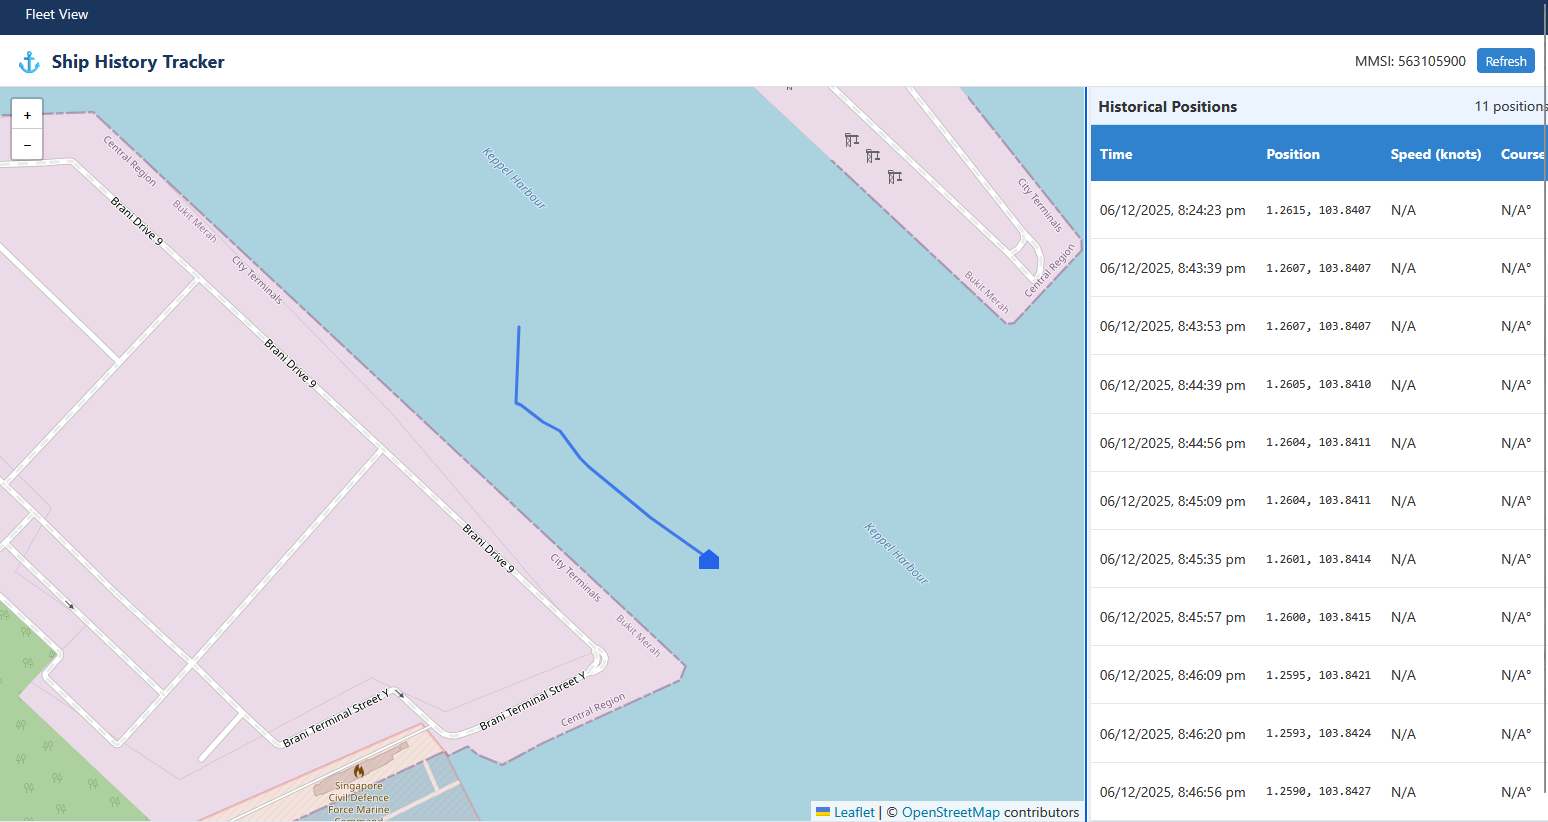
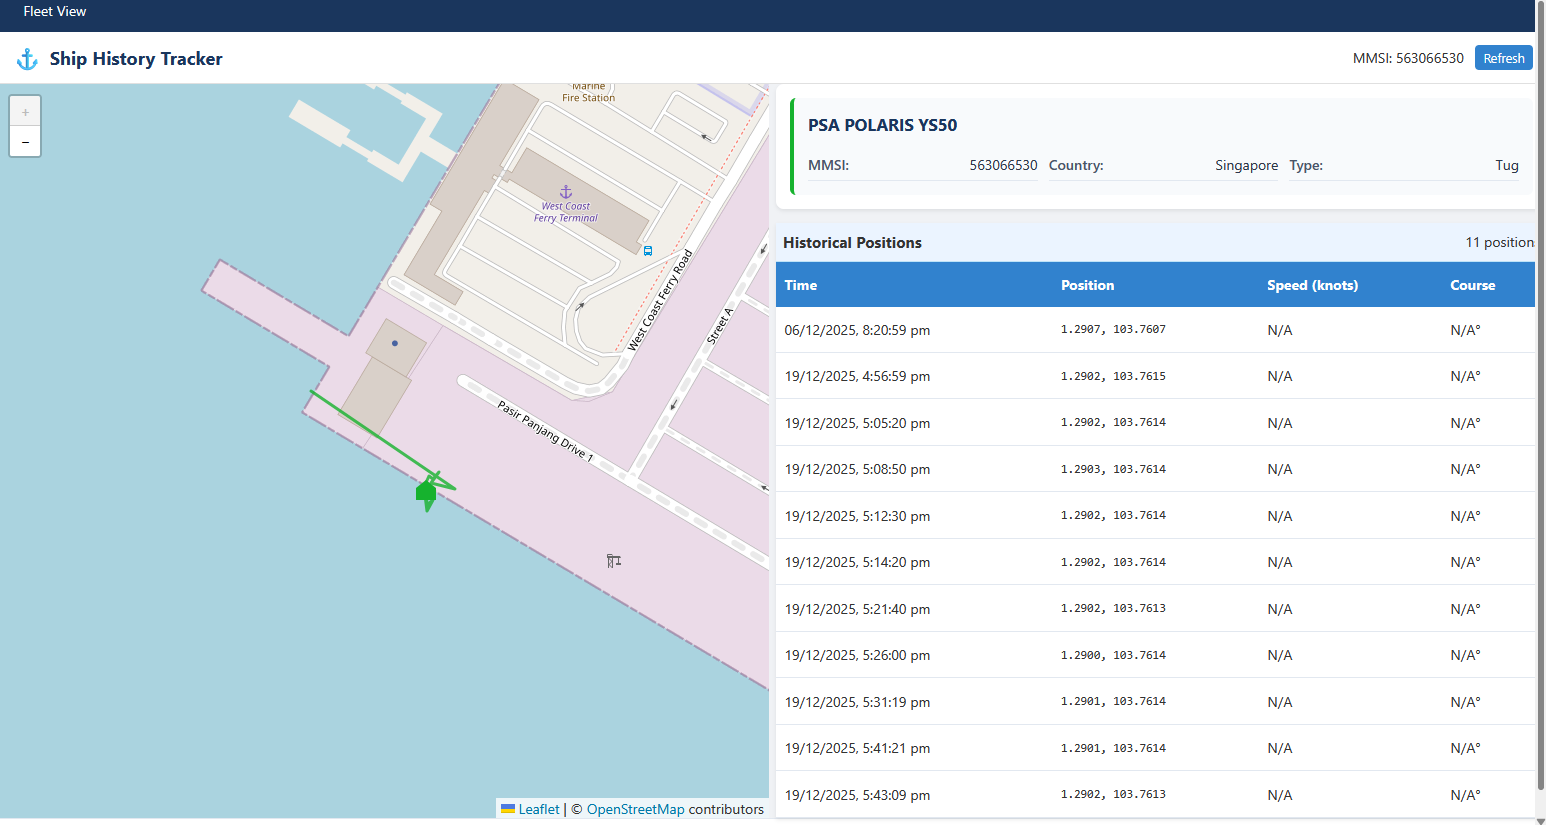
Added vessel summary to vessel history page

diff --git a/OpenVehMap/static/js/history.js b/OpenVehMap/static/js/history.js
@@ -8,6 +8,12 @@ document.addEventListener('DOMContentLoaded', function() {
     const positionCount = document.getElementById('position-count');
     const loadingOverlay = document.getElementById('loading');
     
+    // Vessel details elements
+    const shipNameElement = document.getElementById('ship-name');
+    const mmsiValueElement = document.getElementById('mmsi-value');
+    const countryValueElement = document.getElementById('country-value');
+    const typeValueElement = document.getElementById('type-value');
+    
     // Initialize map
     const map = L.map(mapElement).setView([20, 0], 2);
     
@@ -18,6 +24,7 @@ document.addEventListener('DOMContentLoaded', function() {
     let shipMarker = null;
     let routeLine = null;
     let positions = [];
+    let shipInfo = null;
     
     async function fetchShipHistory() {
         try {
@@ -29,6 +36,34 @@ document.addEventListener('DOMContentLoaded', function() {
         } catch (error) {
             console.error('Error fetching ship history:', error);
             return [];
+        }
+    }
+    
+    async function fetchShipInfo() {
+        try {
+            const response = await fetch(`/api/ship/${mmsi}`);
+            if (!response.ok) {
+                return null;
+            }
+            return await response.json();
+        } catch (error) {
+            console.error('Error fetching ship info:', error);
+            return null;
+        }
+    }
+    
+    function updateVesselDetails(info) {
+        if (info) {
+            shipNameElement.textContent = info.name || 'Unknown Vessel';
+            mmsiValueElement.textContent = info.mmsi;
+            countryValueElement.textContent = info.country || 'Unknown';
+            typeValueElement.textContent = info.type || 'Unknown';
+            
+            // Update the ship color based on type
+            const shipColor = info.type === "Tug" ? "#16b22eff" : 
+                             (info.type === "Military" || info.type === "SAR") ? "#eb2525ff" : 
+                             "#2563eb";
+            document.querySelector('.detail-card').style.borderLeftColor = shipColor;
         }
     }
     
@@ -44,17 +79,24 @@ document.addEventListener('DOMContentLoaded', function() {
         if (shipMarker) map.removeLayer(shipMarker);
         if (routeLine) map.removeLayer(routeLine);
         
+        // Determine ship color based on type from ship info
+        const shipColor = shipInfo ? 
+                         (shipInfo.type === "Tug" ? "#16b22eff" : 
+                         (shipInfo.type === "Military" || shipInfo.type === "SAR") ? "#eb2525ff" : 
+                         "#2563eb") : 
+                         "#2563eb";
+        
         const coordinates = data.map(pos => [pos.lat, pos.lng]);
         
         routeLine = L.polyline(coordinates, {
-            color: '#2563eb',
+            color: shipColor,
             weight: 3,
             opacity: 0.8
         }).addTo(map);
         
         const lastPos = data[data.length - 1];
         shipMarker = L.marker([lastPos.lat, lastPos.lng], { 
-            icon: createShipIcon(0, 20, '')
+            icon: createShipIcon(0, 20, shipInfo ? shipInfo.type : 'Other')
         })
         .addTo(map)
         .bindPopup(`<b>Current Position</b><br>Time: ${formatTimestamp(lastPos.timestamp)}`);
@@ -63,7 +105,7 @@ document.addEventListener('DOMContentLoaded', function() {
         map.fitBounds(bounds.pad(0.1));
         
         shipsTableBody.innerHTML = '';
-        data.slice(0, 50).forEach(pos => {
+        data.forEach(pos => {
             const row = document.createElement('tr');
             row.innerHTML = `
                 <td class="timestamp">${formatTimestamp(pos.timestamp)}</td>
@@ -78,7 +120,14 @@ document.addEventListener('DOMContentLoaded', function() {
     async function init() {
         loadingOverlay.classList.remove('hidden');
         
-        const historyData = await fetchShipHistory();
+        // Fetch both history and ship info
+        const [historyData, infoData] = await Promise.all([
+            fetchShipHistory(),
+            fetchShipInfo()
+        ]);
+        
+        shipInfo = infoData;
+        updateVesselDetails(infoData);
         renderPositions(historyData);
         
         loadingOverlay.classList.add('hidden');

diff --git a/OpenVehMap/static/css/history.css b/OpenVehMap/static/css/history.css
@@ -1,9 +1,9 @@
-/* Thanks Qwen */
 .main-content {
     display: grid;
-    grid-template-columns: 1fr;
-    gap: 0;
-    height: calc(100vh - 105px); /* Full viewport height minus header and nav */
+    grid-template-columns: 1fr 1fr;
+    grid-template-rows: auto 1fr; /* Explicit row definition */
+    gap: 0.5rem;
+    height: calc(100vh - 105px); /* Full height minus header/nav */
 }
 
 .map-container {
@@ -11,6 +11,7 @@
     height: 100%;
     width: 100%;
     z-index: 1;
+    grid-row: 1 / 3; /* Make map span both rows */
 }
 
 #map {
@@ -19,6 +20,54 @@
     z-index: 1;
 }
 
+/* Vessel Details - Top Right */
+.vessel-details {
+    background: white;
+    border-radius: 8px;
+    box-shadow: 0 2px 4px rgba(0, 0, 0, 0.08);
+    margin: 0 0 0.5rem 0;
+    padding: 1rem;
+    grid-column: 2;
+    grid-row: 1;
+}
+
+.detail-card {
+    background: #f8fafc;
+    border-radius: 6px;
+    padding: 1rem;
+    border-left: 4px solid #3182ce;
+}
+
+.detail-card h3 {
+    color: #1a365d;
+    margin-bottom: 0.8rem;
+    font-size: 1.2rem;
+}
+
+.detail-grid {
+    display: grid;
+    grid-template-columns: repeat(auto-fit, minmax(200px, 1fr));
+    gap: 0.8rem;
+}
+
+.detail-item {
+    display: flex;
+    justify-content: space-between;
+    padding: 0.4rem 0;
+    border-bottom: 1px solid #e2e8f0;
+}
+
+.detail-item label {
+    font-weight: 600;
+    color: #4a5568;
+}
+
+.detail-item span {
+    color: #2d3748;
+    font-weight: 500;
+}
+
+/* Ships Table Container - Bottom Right */
 .ships-table-container {
     background: white;
     border-radius: 0;
@@ -28,6 +77,9 @@
     display: flex;
     flex-direction: column;
     min-height: 0;
+    grid-column: 2;
+    grid-row: 2;
+    height: 100%; /* Ensure it fills available space */
 }
 
 .table-header {
@@ -61,6 +113,7 @@
     min-height: 0;
     display: flex;
     flex-direction: column;
+    height: 100%; /* Force table wrapper to fill available space */
 }
 
 #ships-table {
@@ -120,33 +173,28 @@ footer {
 }
 
 /* Responsive adjustments */
-@media (min-width: 992px) {
-    .main-content {
-        grid-template-columns: 70% 30%;
-        gap: 0.5rem;
-    }
-    
-    .ships-table-container {
-        height: calc(100vh - 105px);
-        border-radius: 0;
-    }
-    
-    .table-wrapper {
-        max-height: none;
-    }
-    
-    .pagination {
-        border-top: none;
-    }
-}
-
 @media (max-width: 991px) {
     .main-content {
         grid-template-columns: 1fr;
+        grid-template-rows: auto auto auto;
+        height: calc(100vh - 105px);
+    }
+    
+    .vessel-details {
+        grid-column: 1;
+        grid-row: 1;
+    }
+    
+    .map-container {
+        grid-column: 1;
+        grid-row: 2;
+        height: 40%;
+        grid-row: auto; /* Reset for mobile */
     }
     
     .ships-table-container {
-        height: 300px;
-        border-top: 1px solid #e2e8f0;
+        grid-column: 1;
+        grid-row: 3;
+        height: 40%;
     }
 }

diff --git a/OpenVehMap/templates/history.html b/OpenVehMap/templates/history.html
@@ -1,4 +1,3 @@
-<!-- Thanks Qwen -->
 <!DOCTYPE html>
 <html lang="en">
 <head>
@@ -31,10 +30,33 @@
         </header>
         
         <div class="main-content">
+            <!-- Map - Left Side -->
             <div class="map-container">
                 <div id="map"></div>
             </div>
 
+            <!-- Vessel Details - Top Right -->
+            <div class="vessel-details">
+                <div class="detail-card">
+                    <h3 id="ship-name">Loading...</h3>
+                    <div class="detail-grid">
+                        <div class="detail-item">
+                            <label>MMSI:</label>
+                            <span id="mmsi-value">-</span>
+                        </div>
+                        <div class="detail-item">
+                            <label>Country:</label>
+                            <span id="country-value">-</span>
+                        </div>
+                        <div class="detail-item">
+                            <label>Type:</label>
+                            <span id="type-value">-</span>
+                        </div>
+                    </div>
+                </div>
+            </div>
+
+            <!-- Ships Table - Bottom Right -->
             <div class="ships-table-container">
                 <div class="table-header">
                     <h2>Historical Positions</h2>

diff --git a/OpenVehMap/database.py b/OpenVehMap/database.py
@@ -226,7 +226,7 @@ class ShipDBActions:
             conn.close()
 
     @staticmethod
-    def getHistoryOfMMSI(mmsi: int) -> tuple:
+    def getHistoryOfMMSI(mmsi: int) -> list:
         '''
         Returns history of mmsi
         '''
@@ -244,6 +244,33 @@ class ShipDBActions:
         except Exception as e:
             print(f"ERROR - ShipDBActions - getHistoryOfMMSI: {e}")
             AudtiDBActions.writeToAuditDB("error", "ShipDBActions - getHistoryOfMMSI", f"{e}")
+        finally:
+            curs.close()
+            conn.close()
+
+    @staticmethod
+    def getInfoOfMMSI(mmsi: int) -> dict:
+        '''
+        Returns vessel info of mmsi
+        '''
+        conn = ShipDBActions.getDataDBConnection()
+        try:
+            curs = conn.cursor()
+            curs.execute("SELECT shipName, mmsi, country, shipType FROM GeoShipInfo WHERE mmsi = ?", (mmsi, ))
+            conn.commit()
+            data = curs.fetchone()
+            print(data)
+            output = {
+                "name": f"{data[0]}",
+                "mmsi": f"{data[1]}",
+                "country": f"{data[2]}",
+                "type": f"{data[3]}"
+                }
+            print(output)
+            return output
+        except Exception as e:
+            print(f"ERROR - ShipDBActions - getInfoOfMMSI: {e}")
+            AudtiDBActions.writeToAuditDB("error", "ShipDBActions - getInfoOfMMSI", f"{e}")
         finally:
             curs.close()
             conn.close()

diff --git a/OpenVehMap/main.py b/OpenVehMap/main.py
@@ -18,6 +18,12 @@ class WebServer:
         def api_history(mmsi):
             data = ShipDBActions.getHistoryOfMMSI(mmsi)
             return jsonify(data)
+        
+        # Thanks Qwen
+        @app.route('/api/ship/<mmsi>')
+        def api_ship_info(mmsi):
+            ship_details = ShipDBActions.getInfoOfMMSI(mmsi)  # Your existing function
+            return jsonify(ship_details)
 
         # Thanks Qwen
         @app.route('/')
